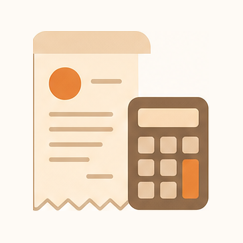
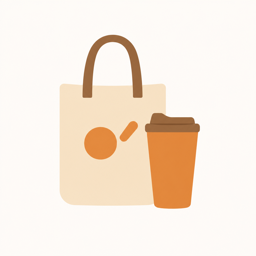
디자인 변경 2

diff --git a/app/_components/AnnouncementSection.tsx b/app/_components/AnnouncementSection.tsx
@@ -3,7 +3,7 @@
 import Image from 'next/image';
 import Link from 'next/link';
 import { useEffect, useRef, useState } from 'react';
-import { ArrowRight, ChevronRight, Megaphone } from 'lucide-react';
+import { ArrowRight, Megaphone } from 'lucide-react';
 import { formatKSTLongDate } from '@/lib/kst';
 import type { AnnouncementItem } from '@/types/announcement';
 
@@ -11,34 +11,8 @@ interface AnnouncementSectionProps {
   items: AnnouncementItem[];
 }
 
-// 리스트가 꽉 찼을 때와 비었을 때 섹션 높이를 동일하게 유지하기 위한 기준값
-const VISIBLE_ROWS = 6;
-const ROW_MIN_HEIGHT = 96; // px (썸네일 + 상하 여백)
-
-function AnnouncementThumbnail({ item }: { item: AnnouncementItem }) {
-  const cover = item.images[0];
-
-  return (
-    <div className="relative shrink-0 w-24 sm:w-28 aspect-[16/9] rounded-xl bg-duru-orange-50 overflow-hidden">
-      {cover ? (
-        <Image
-          src={cover.imageCardUrl || cover.imageUrl}
-          alt={cover.imageAlt || item.title}
-          fill
-          sizes="112px"
-          className="object-cover transition-transform duration-300 group-hover:scale-105"
-          {...(cover.imageBlurData
-            ? { placeholder: 'blur' as const, blurDataURL: cover.imageBlurData }
-            : {})}
-        />
-      ) : (
-        <div className="absolute inset-0 flex items-center justify-center">
-          <Megaphone aria-hidden className="w-7 h-7 text-landing-orange/60" />
-        </div>
-      )}
-    </div>
-  );
-}
+// 공고가 있을 때와 없을 때 섹션 높이를 동일하게 유지하기 위한 기준값
+const CARD_MIN_HEIGHT = 340; // px
 
 export default function AnnouncementSection({ items }: AnnouncementSectionProps) {
   const [isVisible, setIsVisible] = useState(false);
@@ -62,7 +36,9 @@ export default function AnnouncementSection({ items }: AnnouncementSectionProps)
     return () => observer.disconnect();
   }, []);
 
-  const isEmpty = items.length === 0;
+  // 가장 최근 공고 하나만 크게 노출
+  const featured = items[0];
+  const cover = featured?.images[0];
 
   return (
     <section ref={sectionRef} className="min-h-screen flex items-center py-32 bg-white">
@@ -81,12 +57,62 @@ export default function AnnouncementSection({ items }: AnnouncementSectionProps)
           </p>
         </div>
 
-        {/* 공고 리스트 — 비어있어도 동일한 높이를 유지 */}
+        {/* 대표 공고 1건 — 비어있어도 동일한 높이를 유지 */}
         <div
-          className="flex flex-col rounded-2xl border border-duru-orange-100 bg-white shadow-soft overflow-hidden"
-          style={{ minHeight: `${VISIBLE_ROWS * ROW_MIN_HEIGHT}px` }}
+          className={`flex flex-col rounded-3xl border border-duru-orange-100 bg-white shadow-soft overflow-hidden transition-all duration-1000 ${
+            isVisible ? 'opacity-100 translate-y-0' : 'opacity-0 translate-y-4'
+          }`}
+          style={{
+            minHeight: `${CARD_MIN_HEIGHT}px`,
+            transitionDelay: isVisible ? '150ms' : '0ms',
+          }}
         >
-          {isEmpty ? (
+          {featured ? (
+            <Link
+              href={`/announcements/${featured.id}`}
+              className="group flex flex-1 flex-col focus:outline-none focus:ring-2 focus:ring-inset focus:ring-duru-orange-500"
+            >
+              <div className="relative w-full aspect-[16/9] bg-duru-orange-50 overflow-hidden">
+                {cover ? (
+                  <Image
+                    src={cover.imageUrl}
+                    alt={cover.imageAlt || featured.title}
+                    fill
+                    sizes="(max-width: 896px) 100vw, 896px"
+                    className="object-cover transition-transform duration-500 group-hover:scale-105"
+                    {...(cover.imageBlurData
+                      ? { placeholder: 'blur' as const, blurDataURL: cover.imageBlurData }
+                      : {})}
+                  />
+                ) : (
+                  <div className="absolute inset-0 flex items-center justify-center">
+                    <Megaphone aria-hidden className="w-14 h-14 text-landing-orange/50" />
+                  </div>
+                )}
+              </div>
+
+              <div className="flex flex-1 flex-col px-6 py-7 sm:px-8 sm:py-8">
+                <div className="flex items-center gap-2.5 mb-3">
+                  <span className="inline-flex rounded-full bg-duru-orange-50 px-3 py-1 text-xs font-semibold text-landing-orange">
+                    모집중
+                  </span>
+                  <span className="text-sm text-duru-text-sub">
+                    {formatKSTLongDate(featured.createdAt)}
+                  </span>
+                </div>
+                <h3 className="text-2xl sm:text-3xl font-bold text-duru-text-main break-keep leading-snug line-clamp-2 group-hover:text-landing-orange transition-colors">
+                  {featured.title}
+                </h3>
+                <p className="mt-3 text-base text-duru-text-sub break-keep leading-relaxed line-clamp-3">
+                  {featured.content}
+                </p>
+                <span className="mt-6 inline-flex items-center gap-1.5 text-sm font-semibold text-landing-orange">
+                  자세히 보기
+                  <ArrowRight className="w-4 h-4 transition-transform group-hover:translate-x-1" />
+                </span>
+              </div>
+            </Link>
+          ) : (
             <div className="flex flex-1 flex-col items-center justify-center gap-3 px-6 py-16 text-center">
               <span className="flex h-14 w-14 items-center justify-center rounded-full bg-duru-orange-50">
                 <Megaphone aria-hidden className="w-7 h-7 text-landing-orange/70" />
@@ -98,48 +124,6 @@ export default function AnnouncementSection({ items }: AnnouncementSectionProps)
                 새로운 공고가 등록되면 이곳에서 가장 먼저 만나보실 수 있어요.
               </p>
             </div>
-          ) : (
-            <ul className="divide-y divide-duru-orange-100">
-              {items.map((item, index) => {
-                const date = formatKSTLongDate(item.createdAt);
-
-                return (
-                  <li
-                    key={item.id}
-                    className={`transition-all duration-700 ${
-                      isVisible ? 'opacity-100 translate-y-0' : 'opacity-0 translate-y-4'
-                    }`}
-                    style={{ transitionDelay: isVisible ? `${100 + index * 60}ms` : '0ms' }}
-                  >
-                    <Link
-                      href={`/announcements/${item.id}`}
-                      className="group flex items-center gap-4 px-4 py-4 sm:px-5 transition-colors hover:bg-duru-orange-50/60 focus:outline-none focus:ring-2 focus:ring-inset focus:ring-duru-orange-500"
-                      style={{ minHeight: `${ROW_MIN_HEIGHT}px` }}
-                    >
-                      <AnnouncementThumbnail item={item} />
-                      <div className="min-w-0 flex-1">
-                        <div className="flex items-center gap-2 mb-1.5">
-                          <span className="inline-flex rounded-full bg-duru-orange-50 px-2.5 py-0.5 text-xs font-semibold text-landing-orange">
-                            모집중
-                          </span>
-                          <span className="text-xs text-duru-text-sub">{date}</span>
-                        </div>
-                        <h3 className="font-bold text-duru-text-main break-keep leading-snug line-clamp-1 group-hover:text-landing-orange transition-colors">
-                          {item.title}
-                        </h3>
-                        <p className="mt-1 text-sm text-duru-text-sub break-keep leading-relaxed line-clamp-1">
-                          {item.content}
-                        </p>
-                      </div>
-                      <ChevronRight
-                        aria-hidden
-                        className="hidden sm:block w-5 h-5 shrink-0 text-duru-text-sub/50 transition-colors group-hover:text-landing-orange"
-                      />
-                    </Link>
-                  </li>
-                );
-              })}
-            </ul>
           )}
         </div>
 
@@ -152,7 +136,7 @@ export default function AnnouncementSection({ items }: AnnouncementSectionProps)
         >
           <Link
             href="/announcements"
-            className="inline-flex items-center gap-1.5 text-sm font-semibold text-landing-orange hover:text-duru-orange-600 transition-colors"
+            className="inline-flex items-center gap-2 rounded-full bg-landing-orange px-7 py-3.5 text-base font-semibold text-white shadow-soft transition-colors hover:bg-duru-orange-600 focus:outline-none focus:ring-2 focus:ring-duru-orange-500 focus:ring-offset-2"
           >
             전체 공고 보기
             <ArrowRight className="w-4 h-4" />

diff --git a/app/resume/page.tsx b/app/resume/page.tsx
@@ -35,6 +35,7 @@ interface FormData {
 interface FormErrors {
   name?: string;
   birthDate?: string;
+  address?: string;
   phone?: string;
   privacyConsent?: string;
 }
@@ -42,6 +43,7 @@ interface FormErrors {
 interface TouchedFields {
   name?: boolean;
   birthDate?: boolean;
+  address?: boolean;
   phone?: boolean;
   privacyConsent?: boolean;
 }
@@ -49,6 +51,7 @@ interface TouchedFields {
 const requiredFieldLabels: Record<string, string> = {
   name: '성명',
   birthDate: '생년월일',
+  address: '주소',
   phone: '전화번호',
   privacyConsent: '개인정보 조회 동의',
 };
@@ -128,11 +131,13 @@ export default function ResumePage() {
     }));
   };
 
-  const isSubmitEnabled =
+  const isSubmitEnabled = Boolean(
     formData.name.trim() &&
-    formData.birthDate.trim() &&
-    formData.phone.trim() &&
-    formData.privacyConsent;
+      formData.birthDate.trim() &&
+      formData.address.trim() &&
+      formData.phone.trim() &&
+      formData.privacyConsent
+  );
 
   const handleSubmit = async (e: React.FormEvent) => {
     e.preventDefault();
@@ -140,6 +145,7 @@ export default function ResumePage() {
     const requiredFields: (keyof FormErrors)[] = [
       'name',
       'birthDate',
+      'address',
       'phone',
       'privacyConsent',
     ];
@@ -301,16 +307,22 @@ export default function ResumePage() {
                         error={touched.birthDate && errors.birthDate ? errors.birthDate : undefined}
                       />
                     </td>
-                    <th className={thClass}>주소</th>
+                    <th className={thClass}>
+                      주소 <span className="text-red-500">*</span>
+                    </th>
                     <td className={tdClass}>
                       <input
                         type="text"
                         name="address"
                         value={formData.address}
                         onChange={handleChange}
+                        onBlur={() => handleBlur('address')}
                         placeholder="서울시 강남구 ..."
                         className={inputClass}
                       />
+                      {touched.address && errors.address && (
+                        <p className="text-xs text-red-500 mt-1">{errors.address}</p>
+                      )}
                     </td>
                   </tr>
                   <tr>
@@ -680,14 +692,18 @@ export default function ResumePage() {
             <button
               type="submit"
               disabled={!isSubmitEnabled || submitting}
-              className={`w-full py-4 rounded-xl font-bold text-lg transition-all flex items-center justify-center gap-2 ${
+              className={`w-full py-4 rounded-xl font-extrabold tracking-tight text-lg transition-all flex items-center justify-center gap-2 ${
                 isSubmitEnabled && !submitting
                   ? 'bg-duru-orange-500 text-white hover:bg-duru-orange-600 active:scale-[0.99]'
-                  : 'bg-gray-200 text-gray-400 cursor-not-allowed'
+                  : 'bg-gray-200 text-gray-500 cursor-not-allowed'
               }`}
             >
               {submitting && <Loader2 className="w-5 h-5 animate-spin" />}
-              {submitting ? '제출 중...' : '이력서 제출하기'}
+              {submitting
+                ? '제출 중...'
+                : isSubmitEnabled
+                  ? '이력서 제출하기'
+                  : '필수 항목을 모두 입력해주세요'}
             </button>
 
             <p className="text-center text-xs text-gray-400 mt-4 leading-relaxed">

diff --git a/app/_components/ClosingCtaSection.tsx b/app/_components/ClosingCtaSection.tsx
@@ -14,7 +14,7 @@ const SEEKER = {
   href: '/resume',
   eyebrow: '장애인 구직자',
   title: '나에게 맞는 일자리를 찾고 계신가요?',
-  desc: '상담부터 취업, 근태 관리까지 원스톱으로 도와드려요.',
+  desc: '상담부터 취업까지 일대일 맞춤 직무 연계를 도와드려요.',
   features: ['맞춤형 직무 추천 및 상담', '이력서 등록 및 기업 매칭', '취업 후 적응 지원 프로그램'],
   cta: '이력서 등록 바로가기',
   icon: FileText,
@@ -175,37 +175,39 @@ function SplitPanel({
   delay: number;
 }) {
   const isOrange = tone === 'orange';
+  // 좌/우 패널의 문구가 같은 높이에 오도록, 각 줄을 섹션 그리드의 같은 행(subgrid)에 배치
+  const line = 'w-full max-w-md mx-auto';
 
   return (
     <Link
       href={item.href}
-      className={`group flex flex-col justify-center px-8 py-16 sm:px-12 lg:px-16 lg:py-20 transition-all duration-700 focus:outline-none focus:ring-2 focus:ring-inset focus:ring-white ${
+      className={`group block px-8 py-16 sm:px-12 lg:px-16 lg:py-20 transition-all duration-700 focus:outline-none focus:ring-2 focus:ring-inset focus:ring-white md:grid md:row-span-4 md:grid-rows-[subgrid] md:content-center ${
         isOrange
           ? 'bg-landing-orange text-white hover:bg-duru-orange-600'
           : 'bg-duru-orange-50 text-duru-text-main hover:bg-duru-orange-100'
       } ${isVisible ? 'opacity-100 translate-y-0' : 'opacity-0 translate-y-4'}`}
       style={{ transitionDelay: isVisible ? `${delay}ms` : '0ms' }}
     >
-      <div className="max-w-md mx-auto w-full">
+      <span
+        className={`${line} block text-sm font-semibold ${
+          isOrange ? 'text-white/80' : 'text-landing-orange'
+        }`}
+      >
+        {item.eyebrow}
+      </span>
+      <h3 className={`${line} mt-1 text-2xl sm:text-3xl font-bold break-keep leading-snug`}>
+        {item.title}
+      </h3>
+      <p
+        className={`${line} mt-4 text-base sm:text-lg break-keep leading-relaxed ${
+          isOrange ? 'text-white/90' : 'text-duru-text-sub'
+        }`}
+      >
+        {item.desc}
+      </p>
+      <div className={`${line} mt-8`}>
         <span
-          className={`block text-sm font-semibold ${
-            isOrange ? 'text-white/80' : 'text-landing-orange'
-          }`}
-        >
-          {item.eyebrow}
-        </span>
-        <h3 className="mt-1 text-2xl sm:text-3xl font-bold break-keep leading-snug">
-          {item.title}
-        </h3>
-        <p
-          className={`mt-4 text-base sm:text-lg break-keep leading-relaxed ${
-            isOrange ? 'text-white/90' : 'text-duru-text-sub'
-          }`}
-        >
-          {item.desc}
-        </p>
-        <span
-          className={`mt-8 inline-flex items-center gap-2 text-lg font-bold ${
+          className={`inline-flex items-center gap-2 text-lg font-bold ${
             isOrange ? 'text-white' : 'text-landing-orange'
           }`}
         >
@@ -225,7 +227,7 @@ export default function ClosingCtaSection({ variant = 'cards' }: ClosingCtaSecti
     return (
       <section
         ref={sectionRef}
-        className="grid md:grid-cols-2 pt-16 lg:pt-24 bg-white"
+        className="grid md:grid-cols-2 md:grid-rows-[auto_auto_auto_auto] pt-16 lg:pt-24 bg-white"
         aria-label="이루빛터 시작하기"
       >
         <SplitPanel item={SEEKER} tone="orange" isVisible={isVisible} delay={100} />

diff --git a/app/_components/RecommendedJobsSection.tsx b/app/_components/RecommendedJobsSection.tsx
@@ -34,13 +34,13 @@ const JOBS: Job[] = [
   { id: 'job-posting', title: '채용공고 업로드', example: '블로그·카페·채용사이트 업로드 등', icon: FileUp, image: '/images/jobs/job-3.png', imageAlt: '채용공고 업로드 일러스트 — 문서와 업로드 화살표' },
   { id: 'marketing', title: '홍보 마케팅', example: '홍보 블로그·카페 운영 등', icon: Megaphone, image: '/images/jobs/job-4.png', imageAlt: '홍보 마케팅 일러스트 — 확성기' },
   { id: 'attendance', title: '근태관리', example: '근무자 출결·법정교육 관리 등', icon: CalendarClock, image: '/images/jobs/job-5.png', imageAlt: '근태관리 일러스트 — 달력과 시계' },
-  { id: 'art', title: '미술', example: '달력 제작, 삽화 그림', icon: Paintbrush },
+  { id: 'art', title: '미술', example: '달력 제작, 삽화 그림', icon: Paintbrush, image: '/images/jobs/job-6.png', imageAlt: '미술 일러스트 — 그림이 그려진 달력과 붓' },
   { id: 'sns', title: 'SNS 활성화', example: '좋아요·댓글 작업 등', icon: ThumbsUp, image: '/images/jobs/job-7.png', imageAlt: 'SNS 활성화 일러스트 — 좋아요와 하트' },
   { id: 'ppt', title: 'PPT 제작', example: '기획안 작성 등', icon: Presentation, image: '/images/jobs/job-8.png', imageAlt: 'PPT 제작 일러스트 — 차트 프레젠테이션 보드' },
   { id: 'biz-support', title: '경영지원', example: '자료조사·보고서 작성 등', icon: Briefcase, image: '/images/jobs/job-9.png', imageAlt: '경영지원 일러스트 — 서류가방과 문서' },
   { id: 'design', title: '디자인', example: '카드뉴스·배너 디자인 등', icon: Palette, image: '/images/jobs/job-10.png', imageAlt: '디자인 일러스트 — 팔레트와 붓' },
   { id: 'news-clipping', title: '뉴스클리핑', example: '인터넷 기사 수집 및 보고 등', icon: Newspaper, image: '/images/jobs/job-11.png', imageAlt: '뉴스클리핑 일러스트 — 신문과 가위' },
-  { id: 'promo-goods', title: '홍보물 제작', example: '홍보 물품 제작 업무', icon: Gift },
+  { id: 'promo-goods', title: '홍보물 제작', example: '홍보 물품 제작 업무', icon: Gift, image: '/images/jobs/job-12.png', imageAlt: '홍보물 제작 일러스트 — 에코백과 텀블러' },
 ];
 
 function JobVisual({ job }: { job: Job }) {

diff --git a/app/page.tsx b/app/page.tsx
@@ -70,7 +70,7 @@ export default async function LandingPage() {
   // 로드 실패 시 해당 섹션(캐러셀/공고)은 렌더링되지 않음
   const [galleryResult, announcementResult] = await Promise.allSettled([
     serverFetch<PaginatedResponse<GalleryItem>>('/galleries?page=1&limit=10'),
-    serverFetch<PaginatedResponse<AnnouncementItem>>('/announcements?page=1&limit=6'),
+    serverFetch<PaginatedResponse<AnnouncementItem>>('/announcements?page=1&limit=1'),
   ]);
   const galleryItems: GalleryItem[] =
     galleryResult.status === 'fulfilled' ? galleryResult.value.data : [];
